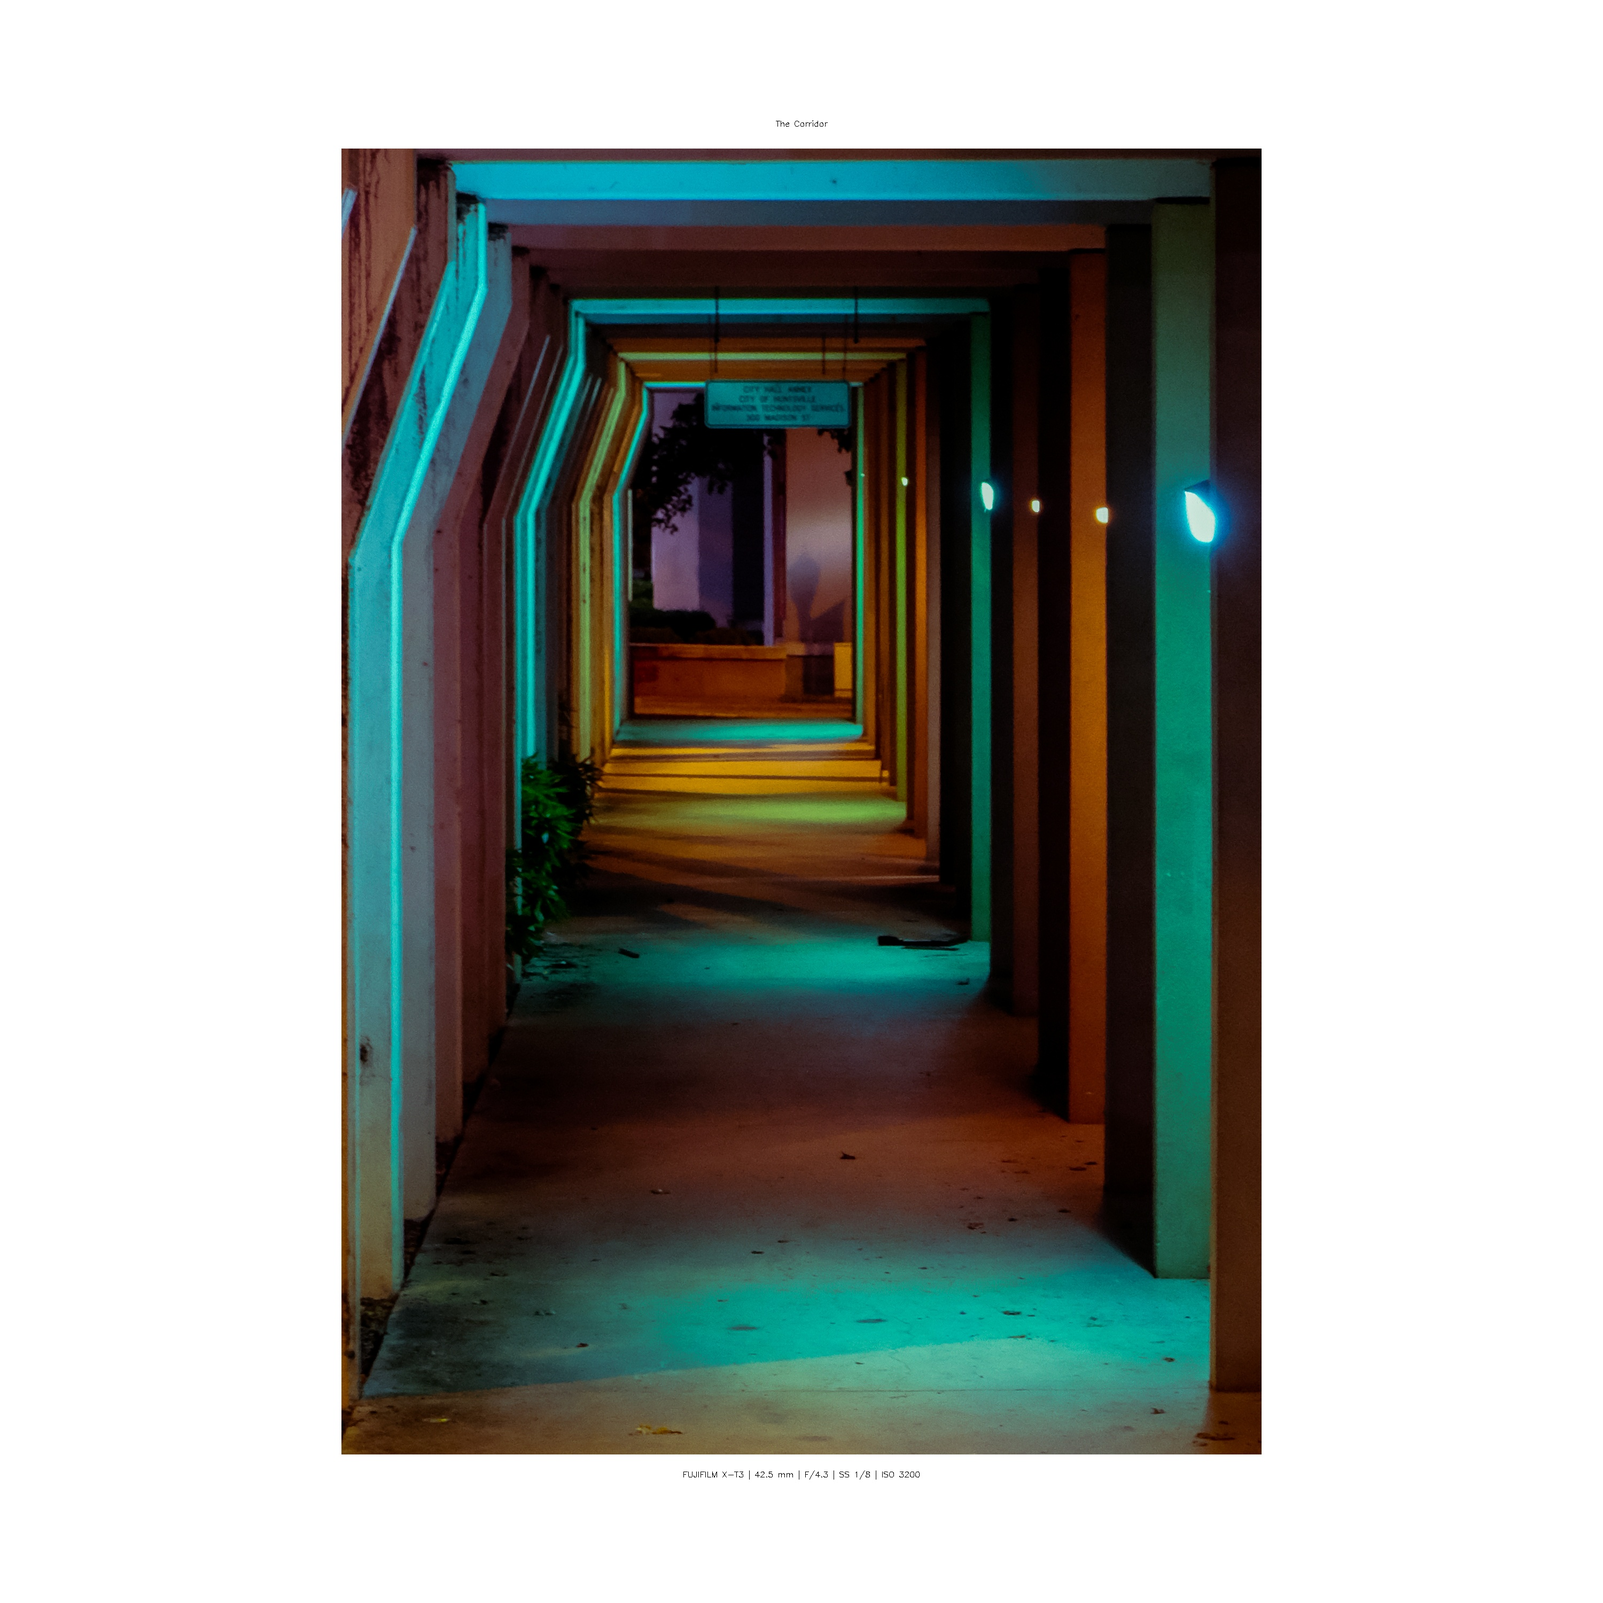
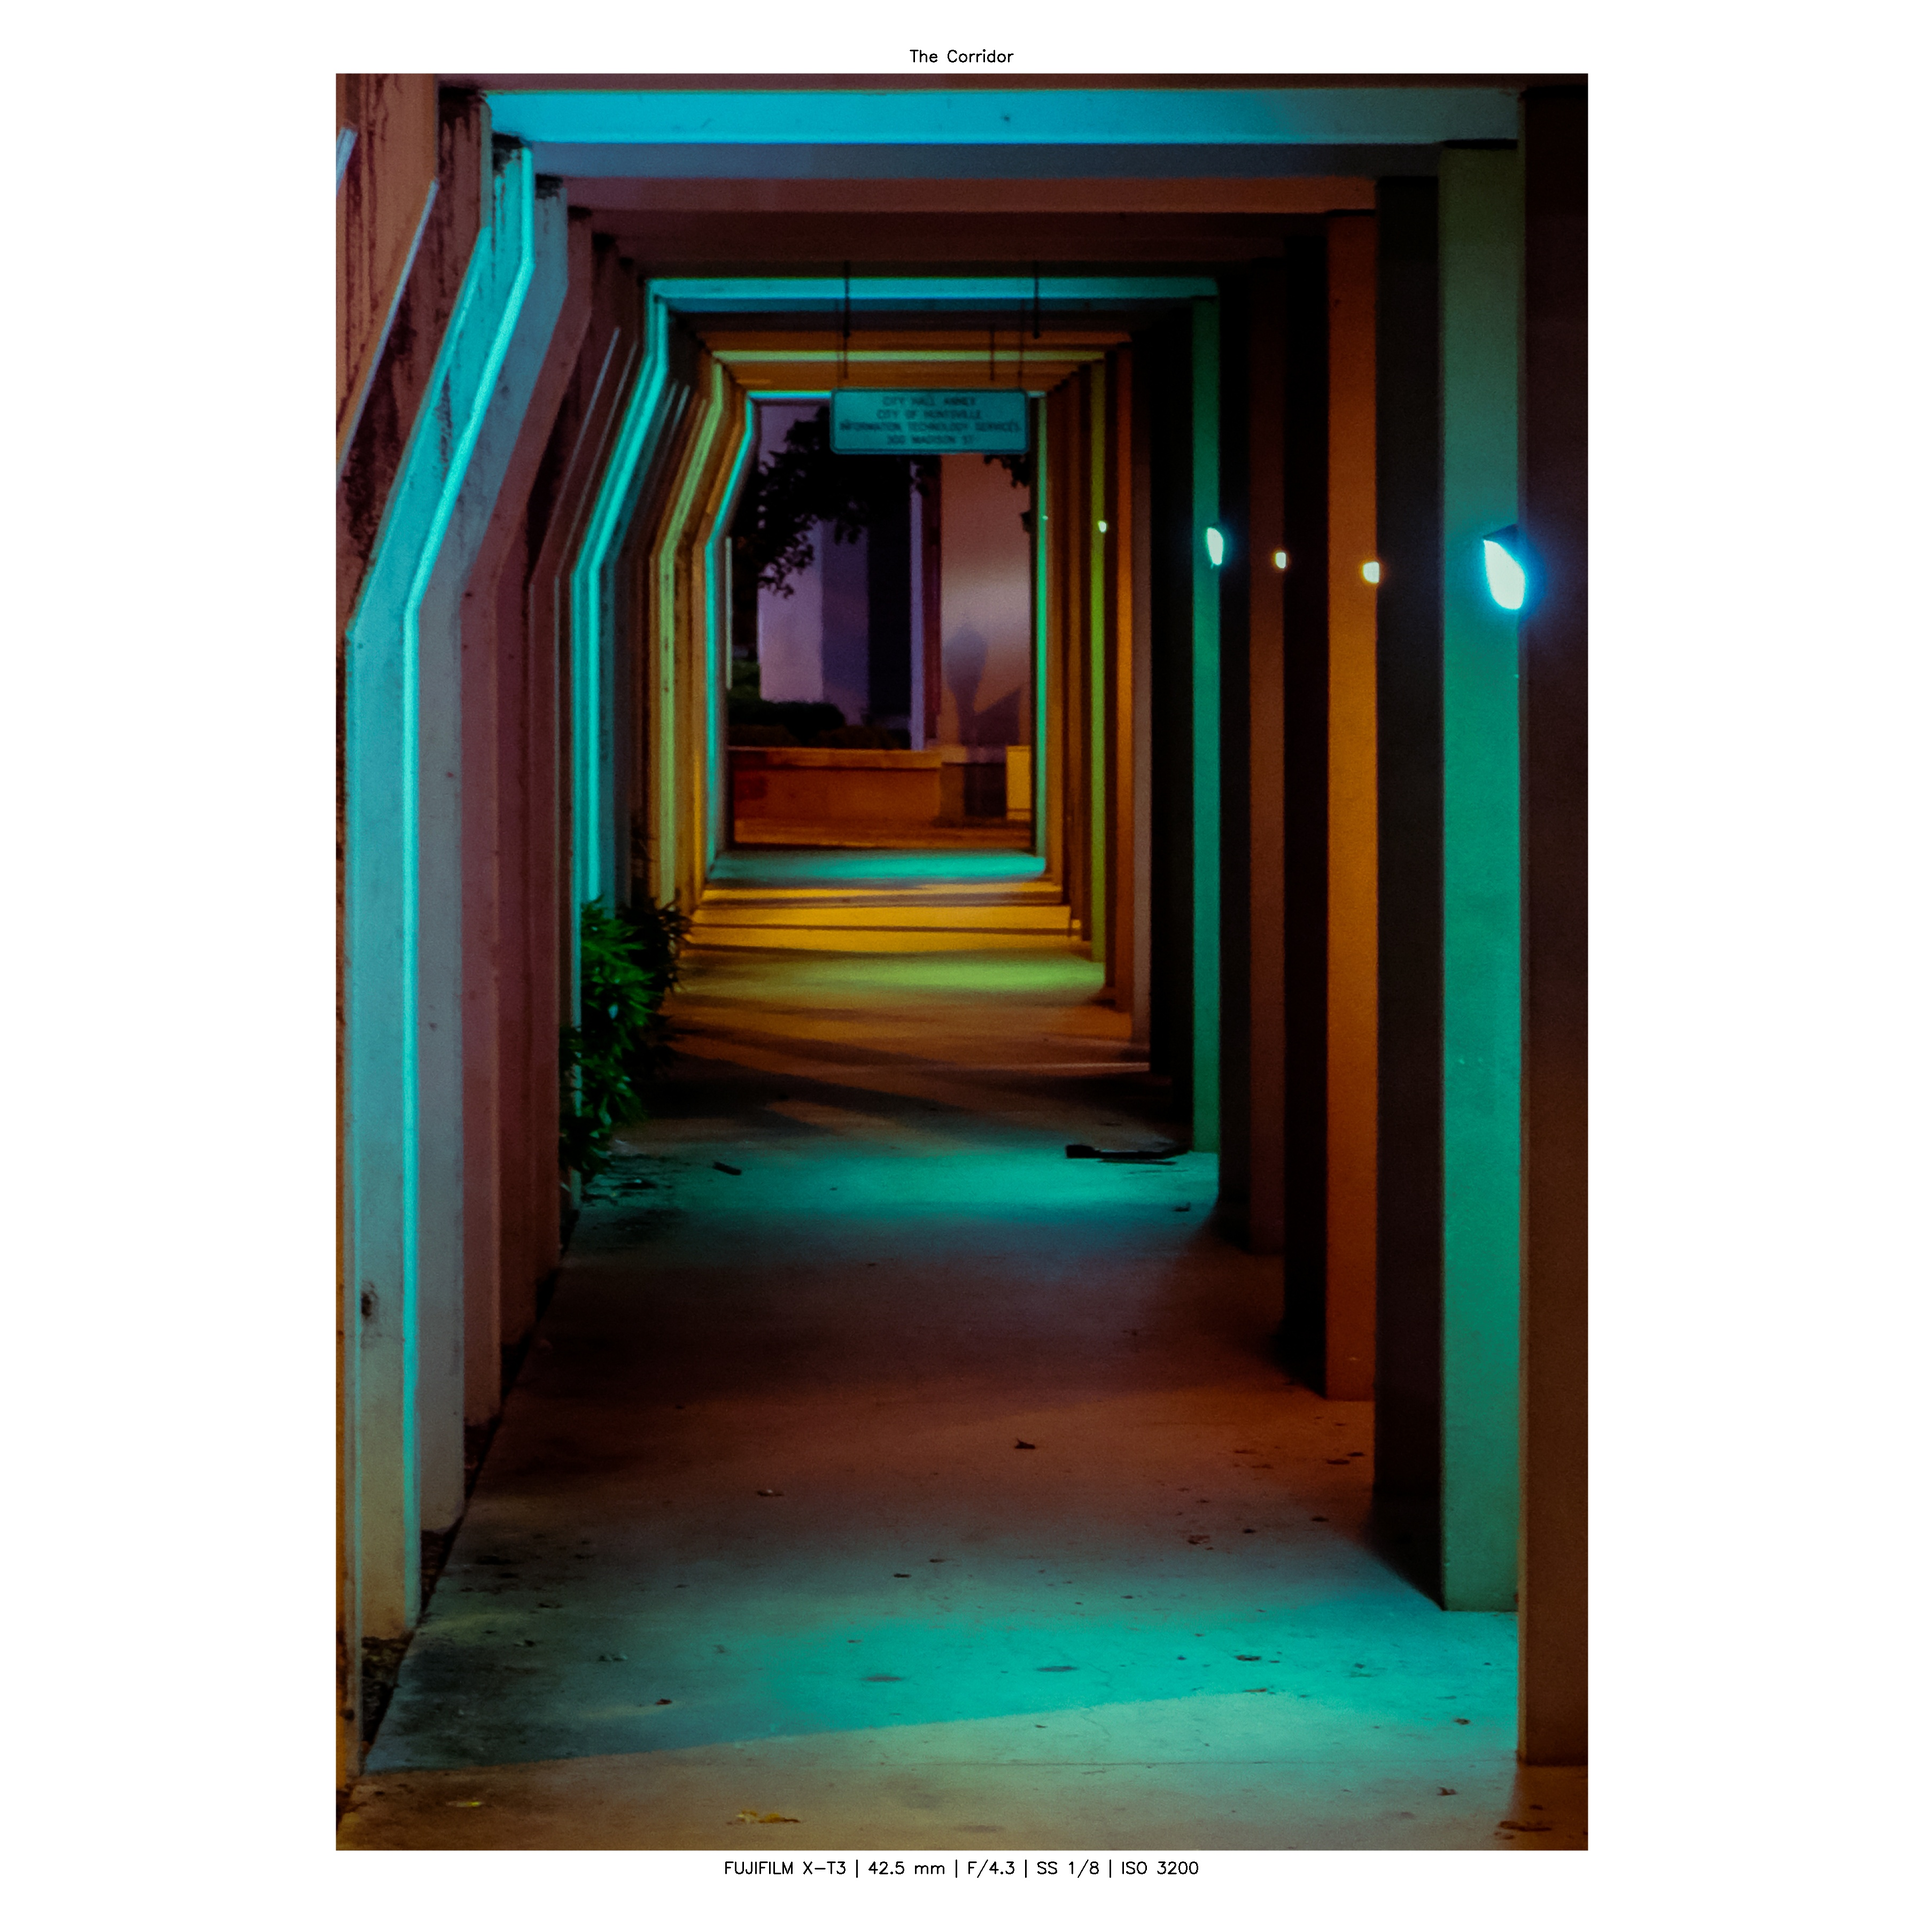
Commit

diff --git a/PhotoPrintingLibrary.py b/PhotoPrintingLibrary.py
@@ -2,6 +2,7 @@ import cv2
 from PIL import Image
 from PIL.ExifTags import TAGS
 import math
+import numpy as np
 import os
 
 class photo:
@@ -35,9 +36,9 @@ class photo:
 
         #Calcualte Border
         if self.image.shape[1] >= self.image.shape[0]:
-            self.squareSize = round(self.image.shape[1]+1000, -3)
+            self.squareSize = self.image.shape[1]+int(self.image.shape[1]/12)
         else:
-            self.squareSize = round(self.image.shape[0]+1000, -3)
+            self.squareSize = self.image.shape[0]+int(self.image.shape[0]/12)
         self.top = int((self.squareSize-self.image.shape[0])/2)
         self.bottom = int((self.squareSize-self.image.shape[0])/2)
         self.left = int((self.squareSize-self.image.shape[1])/2)
@@ -49,29 +50,30 @@ class photo:
 
         #define the print size
         # These are all defaults
-        self.printSize = [3, 3]
+        self.printSize = [12, 12]
         self.dpi = 300
-        self.finalResolution = (self.printSize[0]*self.dpi, self.printSize[1]*self.dpi)
+        self.finalResolution = (3600, 3600)
 
         self.image_with_border = cv2.copyMakeBorder(self.image, self.top, self.bottom, self.left, self.right, cv2.BORDER_CONSTANT, value=self.borderColor)
         
+        self.resizedImage = cv2.resize(self.image_with_border, self.finalResolution, interpolation = cv2.INTER_AREA)
         
         self.font = cv2.FONT_HERSHEY_SIMPLEX
-        self.fontsize = 0.5*(self.squareSize/3000)
-        self.linewidth = int(1*(self.squareSize/3000))
+        self.fontsize = 1#*(self.squareSize/2000)
+        self.linewidth = 2#int(1*(self.squareSize/2000))
         self.textsize = cv2.getTextSize(self.text, self.font, self.fontsize, self.linewidth )[0]
         self.textColor = (0, 0, 0)
 
-        textX = int((self.image_with_border.shape[1] - self.textsize[0]) / 2)
-        textY = self.ImageBottom + self.textsize[1] + 30  #int((img.shape[0] + textsize[1]) / 2)
-        self.imageWithText = cv2.putText(self.image_with_border, self.text, ( textX, textY ), self.font, self.fontsize, self.textColor, self.linewidth)
+        textX = int((self.resizedImage.shape[1]- self.textsize[0]) / 2)
+        textY = int((self.ImageBottom*(3600/self.squareSize))  + self.textsize[1]*2)  #int((img.shape[0] + textsize[1]) / 2)
+        self.imageWithText = cv2.putText(self.resizedImage, self.text, ( textX, textY ), self.font, self.fontsize, self.textColor, self.linewidth)
 
         self.titlesize = cv2.getTextSize(self.title, self.font, self.fontsize, self.linewidth )[0]
-        textX = int((self.image_with_border.shape[1] - self.titlesize[0]) / 2)
-        textY = self.top - self.titlesize[1] - 30
-        self.imageWithText = cv2.putText(self.imageWithText, self.title, ( textX, textY ), self.font, self.fontsize, self.textColor, self.linewidth)
+        textX = int(((self.resizedImage.shape[1]  - self.titlesize[0]) / 2))
+        textY = int((self.top*(3600/self.squareSize))  - (self.titlesize[1]))
+        self.imageWithText = cv2.putText(self.resizedImage, self.title, ( textX, textY ), self.font, self.fontsize, self.textColor, self.linewidth)
 
-        self.resizedImage = cv2.resize(self.imageWithText, self.finalResolution, interpolation = cv2.INTER_AREA)
+        
 
         print(f"{self.title} {self.squareSize}")
         
@@ -122,3 +124,20 @@ class photo:
     
     def save(self):
         cv2.imwrite(f"{self.fileName.split('.')[0]}_B.jpg", self.imageWithText)
+
+
+def collage(arrayIM):
+    spacing = 300
+    
+    for i in range(len(arrayIM)):
+        #arrayIM[i] = cv2.resize(arrayIM[i], (2000, 2000), interpolation = cv2.INTER_AREA)
+        arrayIM[i] = cv2.copyMakeBorder(arrayIM[i], 20, 20, 20, 20, cv2.BORDER_CONSTANT, value=(0, 0, 0))
+        arrayIM[i] = cv2.copyMakeBorder(arrayIM[i], spacing, spacing, spacing, spacing, cv2.BORDER_CONSTANT, value=(246, 249, 250))
+    
+    H1 = np.hstack([arrayIM[0], arrayIM[1], arrayIM[2]])
+    H2 = np.hstack([arrayIM[3], arrayIM[4], arrayIM[5]])
+    H3 = np.hstack([arrayIM[6], arrayIM[7], arrayIM[8]])
+
+    V = np.vstack([H1, H2, H3])
+
+    cv2.imwrite("Arangment.jpg", V)

diff --git a/LibraryTest.py b/LibraryTest.py
@@ -1,40 +1,45 @@
 from PhotoPrintingLibrary import photo
+from PhotoPrintingLibrary import collage
 import os
 
 
-#A Boy and His Camera
+#A Boy and His Camera (vertical)
 Photo1 = photo(f"Exports\PXL_20210922_044429634.jpg", "A Boy and His Camera")
 #Photo1.reProcess(3000, 0.5, 1)
 Photo1.save()
 
-#Power Lines
+#Power Lines (Vertical)
 Photo2 = photo(f"Exports\IMG_0482.jpg", "Power Lines")
 Photo2.save()
 
-#Byodo-In Temple
+#Byodo-In Temple (Horizontal)
 Photo3 = photo(f"Exports\DSCF0691-Edit.jpg", "Byodo-In Temple")
 Photo3.save()
 
-#Nap Time
+#Nap Time (Horizontal)
 Photo4 = photo(f"Exports\DSCF1193.jpg", "Nap Time")
 Photo4.save()
 
-#Foggy Sunrise
-Photo5 = photo(f"Exports\DSCF0297-3-4.jpg", "Foggy Sunrise")
+#I like This Guy (Horizontal)
+Photo5 = photo(f"Exports\DSCF2067.jpg", "I like This Guy")
 Photo5.save()
 
-#The Corridor
+#The Corridor (Verticle)
 Photo6 = photo(f"Exports\DSCF8855.jpg", "The Corridor")
 Photo6.save()
 
-#Elk Breakfast
+#Elk Breakfast (Horizontal)
 Photo7 = photo(f"Exports\DSCF0987.jpg", "Elk Breakfast")
 Photo7.save()
 
-#Jurassic Park
+#Jurassic Park (Horizontal)
 Photo8 = photo(f"Exports\DSCF0803.jpg", "Jurassic Park")
 Photo8.save()
 
-#Vortex
-Photo9 = photo(f"Exports\DSCF0093-6.jpg", "Vortex")
+#The Spider (Horizontal)
+Photo9 = photo(f"Exports\DSCF0063.jpg", "The Spider")
 Photo9.save()
+
+collage([Photo9.imageWithText, Photo5.imageWithText, Photo8.imageWithText, +
+        Photo6.imageWithText, Photo1.imageWithText, Photo2.imageWithText, +
+        Photo4.imageWithText, Photo3.imageWithText, Photo7.imageWithText])
